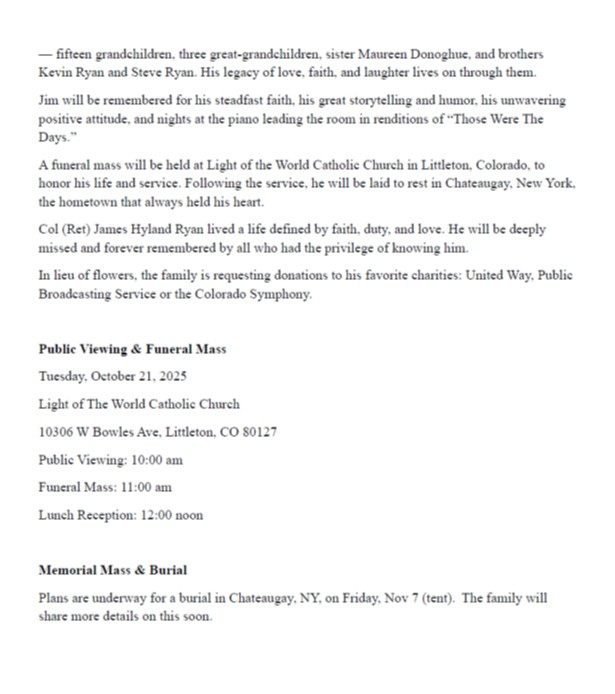
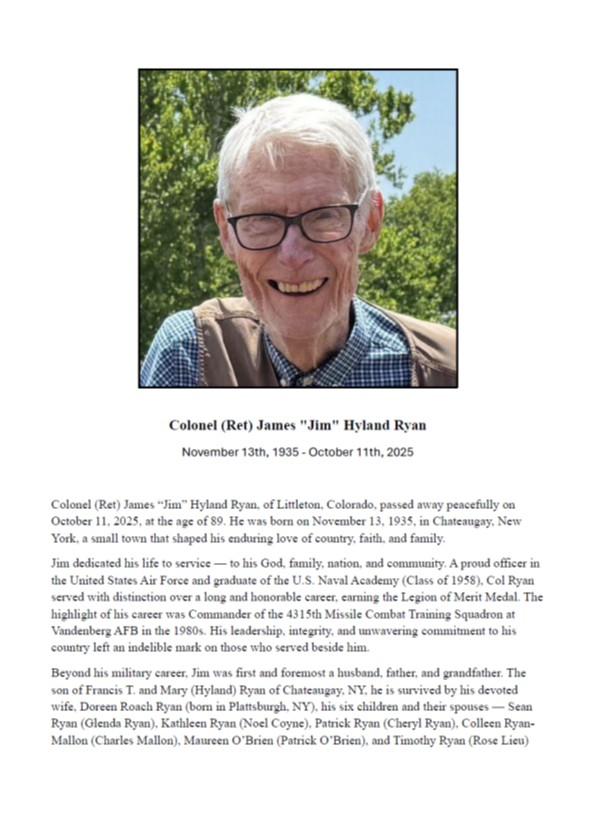
Updated Images

diff --git a/blog/pages/People.html b/blog/pages/People.html
@@ -104,7 +104,7 @@
         <h5 class="u-align-center u-text u-text-default u-text-2">October 17, 2025 | Mick Jarvis</h5>
         <div class="u-carousel u-expanded-width-xs u-gallery u-gallery-slider u-layout-carousel u-lightbox u-no-transition u-show-text-none u-thumbnails-position-bottom u-gallery-1" id="carousel-1" data-interval="5000" data-u-ride="carousel">
           <ol class="u-absolute-hcenter u-carousel-indicators u-carousel-indicators-1">
-<li data-u-target="#carousel-1" data-u-slide-to="0" class="u-active u-grey-70 u-shape-circle" style="width: 10px; height: 10px;"></li><li data-u-target="#carousel-1" data-u-slide-to="1" class=" u-grey-70 u-shape-circle" style="width: 10px; height: 10px;"></li>
+<li data-u-target="#carousel-1" data-u-slide-to="0" class="u-active u-grey-70 u-shape-circle" style="width: 10px; height: 10px;"></li><li data-u-target="#carousel-1" data-u-slide-to="1" class=" u-grey-70 u-shape-circle" style="width: 10px; height: 10px;"></li><li data-u-target="#carousel-1" data-u-slide-to="2" class=" u-grey-70 u-shape-circle" style="width: 10px; height: 10px;"></li>
           </ol>
           <div class="u-carousel-inner u-gallery-inner" role="listbox">
             <div class="u-active u-carousel-item u-gallery-item u-carousel-item-1">
@@ -112,7 +112,7 @@
                 <img class="u-back-image u-expanded" src="../imgs_web/2025-10-17_ryan/ryan_01.jpg">
               </div>
               <div class="u-align-center u-over-slide u-valign-bottom u-over-slide-1">
-                <h3 class="u-gallery-heading" style="width: 618px; margin-right: auto; margin-left: auto;"></h3>
+                <h3 class="u-gallery-heading" style="width: 618px; margin-right: auto; margin-left: auto;">Ryan portrait</h3>
                 <p class="u-gallery-text" style="width: 618px; margin-right: auto; margin-left: auto;"></p>
               </div>
             </div>
@@ -122,7 +122,17 @@
                 <img class="u-back-image u-expanded" src="../imgs_web/2025-10-17_ryan/ryan_02.jpg">
               </div>
               <div class="u-align-center u-over-slide u-valign-bottom u-over-slide-2">
-                <h3 class="u-gallery-heading" style="width: 618px; margin-right: auto; margin-left: auto;"></h3>
+                <h3 class="u-gallery-heading" style="width: 618px; margin-right: auto; margin-left: auto;">Ryan Obiturary, page 1</h3>
+                <p class="u-gallery-text" style="width: 618px; margin-right: auto; margin-left: auto;"></p>
+              </div>
+            </div>
+
+            <div class=" u-carousel-item u-gallery-item u-carousel-item-3">
+              <div class="u-back-slide">
+                <img class="u-back-image u-expanded" src="../imgs_web/2025-10-17_ryan/ryan_03.jpg">
+              </div>
+              <div class="u-align-center u-over-slide u-valign-bottom u-over-slide-3">
+                <h3 class="u-gallery-heading" style="width: 618px; margin-right: auto; margin-left: auto;">Ryan Obituary, page 2</h3>
                 <p class="u-gallery-text" style="width: 618px; margin-right: auto; margin-left: auto;"></p>
               </div>
             </div>

diff --git a/blog/pages/Recent.html b/blog/pages/Recent.html
@@ -104,7 +104,7 @@
         <h5 class="u-align-center u-text u-text-default u-text-2">October 17, 2025 | Mick Jarvis</h5>
         <div class="u-carousel u-expanded-width-xs u-gallery u-gallery-slider u-layout-carousel u-lightbox u-no-transition u-show-text-none u-thumbnails-position-bottom u-gallery-1" id="carousel-1" data-interval="5000" data-u-ride="carousel">
           <ol class="u-absolute-hcenter u-carousel-indicators u-carousel-indicators-1">
-<li data-u-target="#carousel-1" data-u-slide-to="0" class="u-active u-grey-70 u-shape-circle" style="width: 10px; height: 10px;"></li><li data-u-target="#carousel-1" data-u-slide-to="1" class=" u-grey-70 u-shape-circle" style="width: 10px; height: 10px;"></li>
+<li data-u-target="#carousel-1" data-u-slide-to="0" class="u-active u-grey-70 u-shape-circle" style="width: 10px; height: 10px;"></li><li data-u-target="#carousel-1" data-u-slide-to="1" class=" u-grey-70 u-shape-circle" style="width: 10px; height: 10px;"></li><li data-u-target="#carousel-1" data-u-slide-to="2" class=" u-grey-70 u-shape-circle" style="width: 10px; height: 10px;"></li>
           </ol>
           <div class="u-carousel-inner u-gallery-inner" role="listbox">
             <div class="u-active u-carousel-item u-gallery-item u-carousel-item-1">
@@ -112,7 +112,7 @@
                 <img class="u-back-image u-expanded" src="../imgs_web/2025-10-17_ryan/ryan_01.jpg">
               </div>
               <div class="u-align-center u-over-slide u-valign-bottom u-over-slide-1">
-                <h3 class="u-gallery-heading" style="width: 618px; margin-right: auto; margin-left: auto;"></h3>
+                <h3 class="u-gallery-heading" style="width: 618px; margin-right: auto; margin-left: auto;">Ryan portrait</h3>
                 <p class="u-gallery-text" style="width: 618px; margin-right: auto; margin-left: auto;"></p>
               </div>
             </div>
@@ -122,7 +122,17 @@
                 <img class="u-back-image u-expanded" src="../imgs_web/2025-10-17_ryan/ryan_02.jpg">
               </div>
               <div class="u-align-center u-over-slide u-valign-bottom u-over-slide-2">
-                <h3 class="u-gallery-heading" style="width: 618px; margin-right: auto; margin-left: auto;"></h3>
+                <h3 class="u-gallery-heading" style="width: 618px; margin-right: auto; margin-left: auto;">Ryan Obiturary, page 1</h3>
+                <p class="u-gallery-text" style="width: 618px; margin-right: auto; margin-left: auto;"></p>
+              </div>
+            </div>
+
+            <div class=" u-carousel-item u-gallery-item u-carousel-item-3">
+              <div class="u-back-slide">
+                <img class="u-back-image u-expanded" src="../imgs_web/2025-10-17_ryan/ryan_03.jpg">
+              </div>
+              <div class="u-align-center u-over-slide u-valign-bottom u-over-slide-3">
+                <h3 class="u-gallery-heading" style="width: 618px; margin-right: auto; margin-left: auto;">Ryan Obituary, page 2</h3>
                 <p class="u-gallery-text" style="width: 618px; margin-right: auto; margin-left: auto;"></p>
               </div>
             </div>
